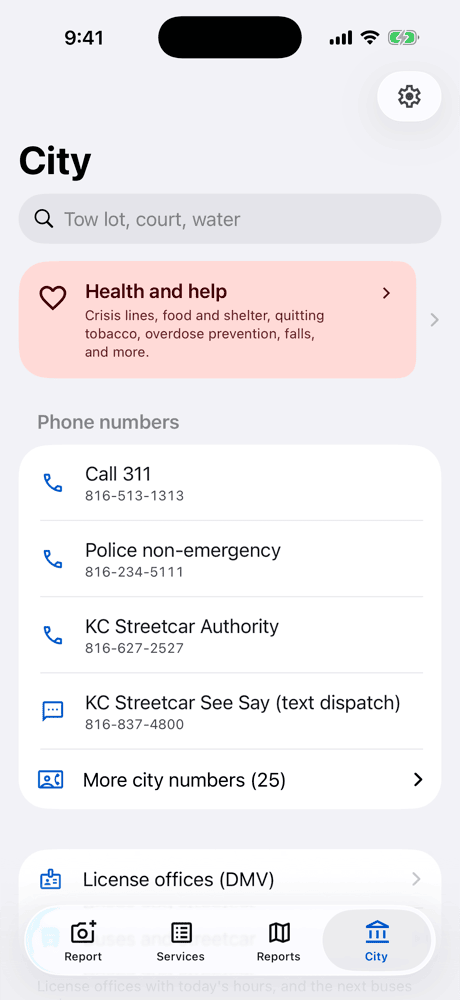
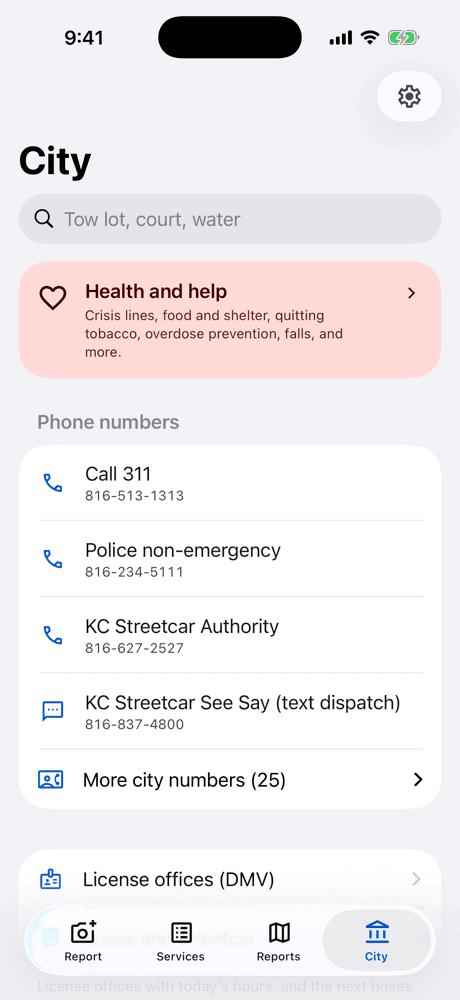
City tab: drop the second chevron on the Health and help card

Changed region(s): [[0.8826, 0.248, 0.9739, 0.403], [0.1826, 0.341, 0.3043, 0.372], [0.7, 0.31, 0.7304, 0.341]]

diff --git a/ios/KC311/Sources/HealthHelp.swift b/ios/KC311/Sources/HealthHelp.swift
@@ -75,24 +75,33 @@ enum HelpCatalog {
 
 /// The red "Health and help" card shown on the Report and City tabs.
 struct HealthHelpCard: View {
+    /// In a List row, a visible NavigationLink gets a second, system chevron.
+    /// There the link sits hidden behind the card.
+    var inList = false
+
     var body: some View {
-        NavigationLink { HealthHelpView() } label: {
-            HStack(alignment: .top, spacing: 14) {
-                Icon(name: "favorite", size: 28).foregroundStyle(Theme.onErrorContainer)
-                VStack(alignment: .leading, spacing: 4) {
-                    Text("Health and help").font(.headline).foregroundStyle(Theme.onErrorContainer)
-                    Text("Crisis lines, food and shelter, quitting tobacco, overdose prevention, falls, and more.")
-                        .font(.caption).foregroundStyle(Theme.onErrorContainer.opacity(0.85))
-                        .multilineTextAlignment(.leading)
-                }
-                Spacer(minLength: 0)
-                Icon(name: "chevron_right", size: 20).foregroundStyle(Theme.onErrorContainer)
-            }
-            .padding(16)
-            .frame(maxWidth: .infinity, alignment: .leading)
-            .background(Theme.errorContainer, in: RoundedRectangle(cornerRadius: Theme.Shape.tile, style: .continuous))
+        if inList {
+            card.background(NavigationLink { HealthHelpView() } label: { EmptyView() }.opacity(0))
+        } else {
+            NavigationLink { HealthHelpView() } label: { card }.buttonStyle(.plain)
         }
-        .buttonStyle(.plain)
+    }
+
+    private var card: some View {
+        HStack(alignment: .top, spacing: 14) {
+            Icon(name: "favorite", size: 28).foregroundStyle(Theme.onErrorContainer)
+            VStack(alignment: .leading, spacing: 4) {
+                Text("Health and help").font(.headline).foregroundStyle(Theme.onErrorContainer)
+                Text("Crisis lines, food and shelter, quitting tobacco, overdose prevention, falls, and more.")
+                    .font(.caption).foregroundStyle(Theme.onErrorContainer.opacity(0.85))
+                    .multilineTextAlignment(.leading)
+            }
+            Spacer(minLength: 0)
+            Icon(name: "chevron_right", size: 20).foregroundStyle(Theme.onErrorContainer)
+        }
+        .padding(16)
+        .frame(maxWidth: .infinity, alignment: .leading)
+        .background(Theme.errorContainer, in: RoundedRectangle(cornerRadius: Theme.Shape.tile, style: .continuous))
     }
 }
 

diff --git a/ios/KC311/Sources/OtherTabs.swift b/ios/KC311/Sources/OtherTabs.swift
@@ -443,7 +443,7 @@ struct CityTab: View {
         NavigationStack {
             List {
                 Section {
-                    HealthHelpCard()
+                    HealthHelpCard(inList: true)
                         .listRowInsets(EdgeInsets())
                         .listRowBackground(Color.clear)
                 }
